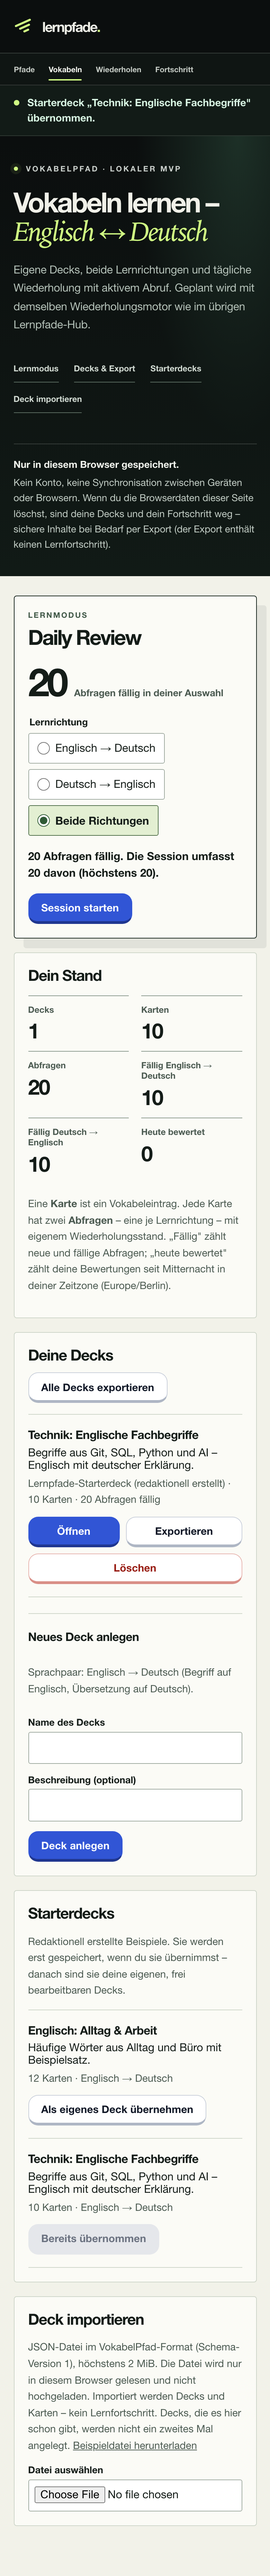
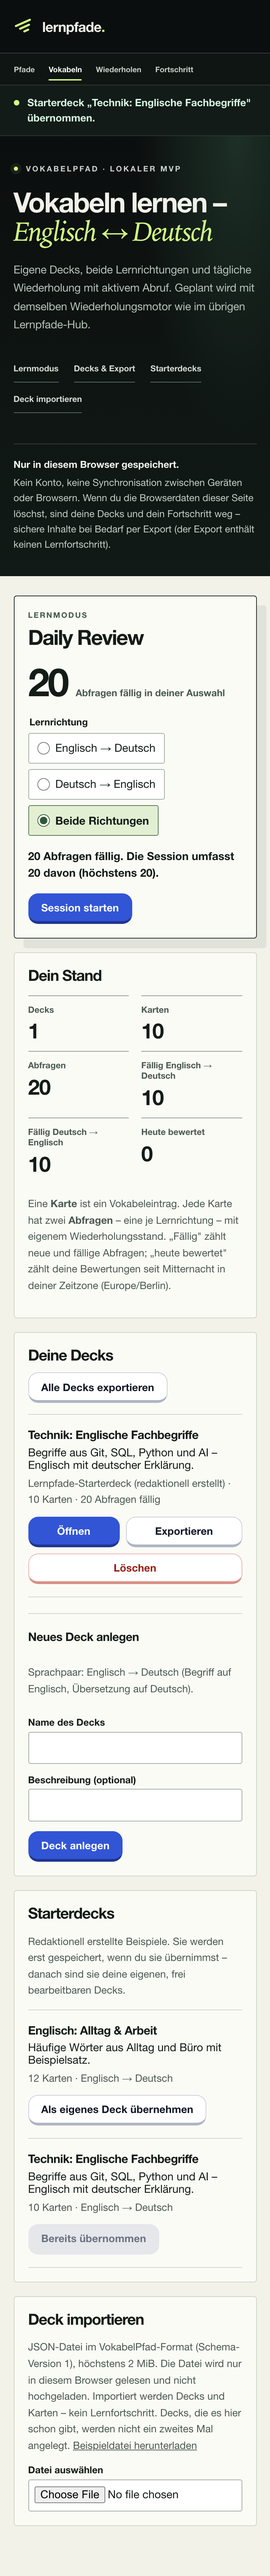
Learning OS: Screenshot-Nachweise nach der Laufweiten-Korrektur (LO-UI-001 G)
Alle 22 Aufnahmen neu gegen den Produktionsbuild von 2d626b3: Wortmarke
liest sich als „lernpfade.", Display-Überschriften ohne Berührungen.
Quellen weiter als MOCKS; Zoom-Aufnahmen aus dem E2E-Lauf dieses Stands.

Changed region(s): [[0.1538, 0.0622, 0.7692, 0.0934], [0.4923, 0.249, 0.5231, 0.2801]]

diff --git a/lernpfade/docs/screenshots/learning-os/README.md b/lernpfade/docs/screenshots/learning-os/README.md
@@ -1,7 +1,7 @@
 # Learning OS – Screenshot-Nachweise (LO-UI-001)
 
 Aufgenommen am 17.11.2026 gegen den Produktionsbuild (`next build` + `next start`)
-von Commit `e71c9ae453833a6aee4fbeff31ebb292befdede2`, Playwright-Chromium 1.62.1
+von Commit `2d626b33aac80836573585e4931d670a19fd06ab` (Stand nach der Laufweiten-Korrektur F), Playwright-Chromium 1.62.1
 auf macOS. Live- und Fortschrittsquellen sind **MOCKS** (`page.route`) unter
 denselben Adressen wie in `playwright.config.ts`; es lief keine echte Fach-App.
 VokabelPfad-Daten: ein frisch übernommenes Starterdeck in einem leeren Profil.
